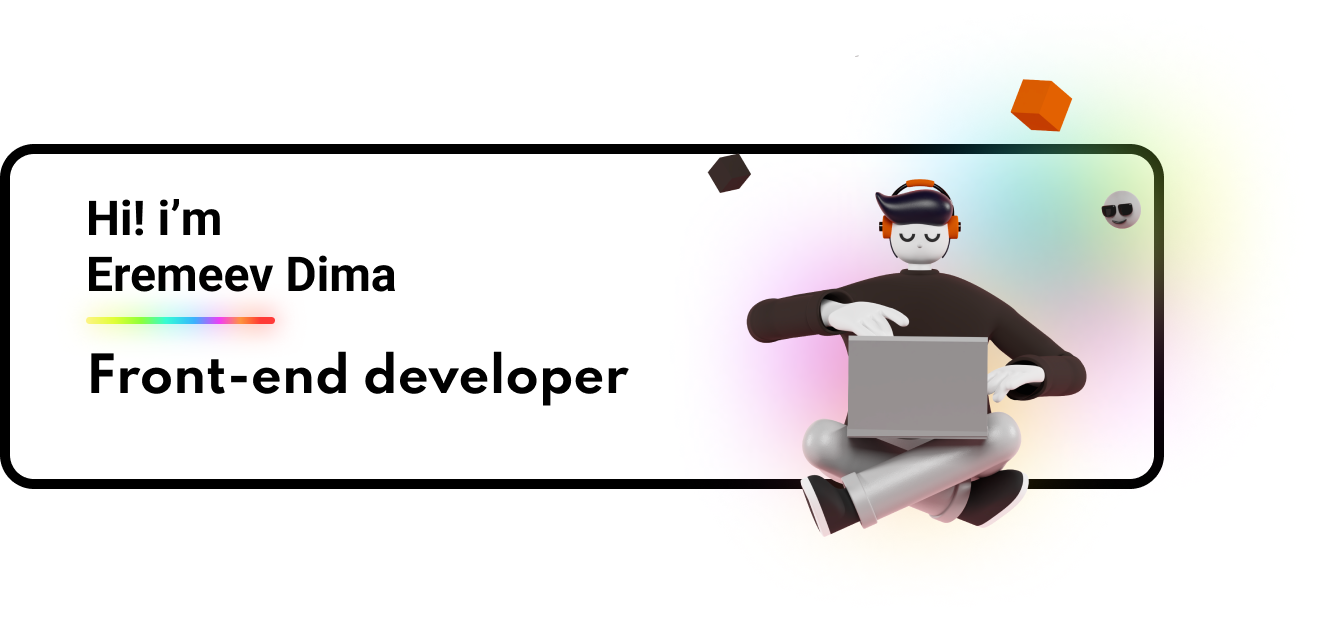
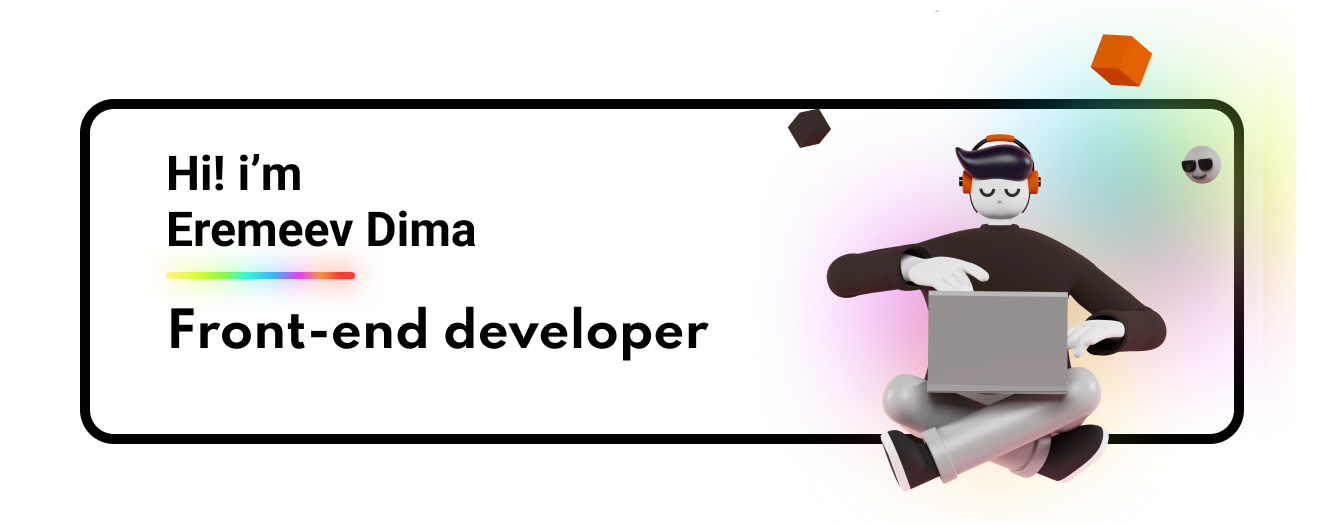
feat: update README

diff --git a/README.md b/README.md
@@ -1,16 +1,50 @@
-## Hi there 👋
+[![Header](https://github.com/fulprimitiv/fulprimitiv/blob/main/info.png)]()
 
-<!--
-**fulprimitiv/fulprimitiv** is a ✨ _special_ ✨ repository because its `README.md` (this file) appears on your GitHub profile.
+### 👨💻 О себе 
+Frontend-разработчик из Екатеринбурга, специализируюсь на React и современных подходах к созданию интерфейсов.
+Имею опыт разработки как клиентской, так и серверной логики (Node.js), участия в командных проектах и работе с реальными заказчиками.
 
-Here are some ideas to get you started:
+##
 
-- 🔭 I’m currently working on ...
-- 🌱 I’m currently learning ...
-- 👯 I’m looking to collaborate on ...
-- 🤔 I’m looking for help with ...
-- 💬 Ask me about ...
-- 📫 How to reach me: ...
-- 😄 Pronouns: ...
-- ⚡ Fun fact: ...
--->
+### 🛠 Технологический стек 
+[![React](https://img.shields.io/badge/-React-61DAFB?logo=react&logoColor=white&style=for-the-badge)](https://reactjs.org/)&nbsp;
+[![JavaScript](https://img.shields.io/badge/javascript-%23323330.svg?style=for-the-badge&logo=javascript&logoColor=%23F7DF1E)](https://developer.mozilla.org/en-US/docs/Web/JavaScript)&nbsp;
+![TypeScript](https://img.shields.io/badge/typescript-%23007ACC.svg?style=for-the-badge&logo=typescript&logoColor=white)&nbsp;
+[![HTML5](https://img.shields.io/badge/html5-%23E34F26.svg?style=for-the-badge&logo=html5&logoColor=white)](https://developer.mozilla.org/en-US/docs/Web/HTML)&nbsp;
+[![CSS3](https://img.shields.io/badge/css3-%231572B6.svg?style=for-the-badge&logo=css3&logoColor=white)](https://developer.mozilla.org/en-US/docs/Web/CSS)&nbsp;
+[![SASS](https://img.shields.io/badge/SASS-%23C69D73.svg?style=for-the-badge&logo=sass&logoColor=white)](https://sass-lang.com/)&nbsp;
+[![Axios](https://img.shields.io/badge/Axios-%230A74BF.svg?style=for-the-badge&logo=axios&logoColor=white)](https://axios-http.com/)&nbsp;
+![FastAPI](https://img.shields.io/badge/FastAPI-005571?style=for-the-badge&logo=fastapi)&nbsp;
+![Redux](https://img.shields.io/badge/redux-%23593d88.svg?style=for-the-badge&logo=redux&logoColor=white)&nbsp;
+[![React Router](https://img.shields.io/badge/React_Router-CA4245?style=for-the-badge&logo=react-router&logoColor=white)](https://reactrouter.com/)&nbsp;
+[![Babel](https://img.shields.io/badge/Babel-%23F9DC3E.svg?style=for-the-badge&logo=babel&logoColor=black)](https://babeljs.io/)&nbsp;
+[![Webpack](https://img.shields.io/badge/Webpack-%238DD6F9.svg?style=for-the-badge&logo=webpack&logoColor=black)](https://webpack.js.org/)&nbsp;
+[![Jest](https://img.shields.io/badge/-Jest-%23C21325?style=for-the-badge&logo=jest&logoColor=white)](https://jestjs.io/)&nbsp;
+[![Cypress](https://img.shields.io/badge/-Cypress-%23E5E5E5?style=for-the-badge&logo=cypress&logoColor=058a5e)](https://www.cypress.io/)&nbsp;
+[![ESLint](https://img.shields.io/badge/ESLint-4B3263?style=for-the-badge&logo=eslint&logoColor=white)](https://eslint.org/)&nbsp;
+[![Prettier](https://img.shields.io/badge/Prettier-F7B93E?style=for-the-badge&logo=prettier&logoColor=black)](https://prettier.io/)&nbsp;
+
+![NodeJS](https://img.shields.io/badge/node.js-6DA55F?style=for-the-badge&logo=node.js&logoColor=white)&nbsp;
+[![Swagger](https://img.shields.io/badge/-Swagger-%23Clojure?style=for-the-badge&logo=swagger&logoColor=white)](https://swagger.io/)&nbsp;
+[![Postman](https://img.shields.io/badge/Postman-FF6C37?style=for-the-badge&logo=postman&logoColor=white)](https://www.postman.com/)&nbsp;
+[![MongoDB](https://img.shields.io/badge/MongoDB-%234ea94b.svg?style=for-the-badge&logo=mongodb&logoColor=white)](https://www.mongodb.com/)&nbsp;
+
+[![Figma](https://img.shields.io/badge/figma-%23F24E1E.svg?style=for-the-badge&logo=figma&logoColor=white)](https://www.figma.com/)&nbsp;
+![Git](https://img.shields.io/badge/git-%23F05033.svg?style=for-the-badge&logo=git&logoColor=white)&nbsp;
+![GitHub](https://img.shields.io/badge/github-%23121011.svg?style=for-the-badge&logo=github&logoColor=white)&nbsp;
+![Notion](https://img.shields.io/badge/Notion-%23000000.svg?style=for-the-badge&logo=notion&logoColor=white)&nbsp;
+
+## 
+<br>
+<div align="center">
+  <a href="mailto:eremeevdima51@gmail.com" target="_blank">
+    <img src="https://img.shields.io/static/v1?message=Email&logo=gmail&label=&color=D14836&logoColor=white&style=for-the-badge" height="30" alt="email logo" />
+  </a>
+  <a href="https://t.me/fulprimitiv" target="_blank">
+    <img src="https://img.shields.io/static/v1?message=Telegram&logo=telegram&label=&color=2CA5E0&logoColor=white&labelColor=&style=for-the-badge" height="30" />
+  </a>
+  <a href="https://vk.com/fulprimitiv" target="_blank">
+    <img src="https://img.shields.io/static/v1?message=VK&logo=vk&label=&color=0077FF&logoColor=white&style=for-the-badge" height="30" />
+  </a>
+  <img src="https://komarev.com/ghpvc/?username=fulprimitiv&style=for-the-badge&color=blue" height="30" />
+</div>
